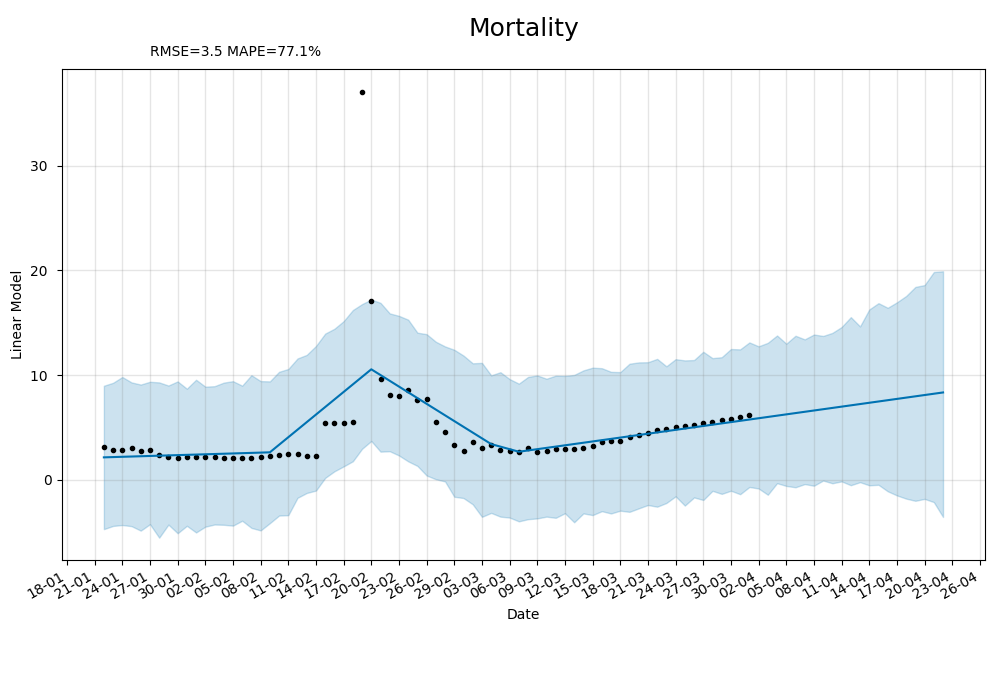
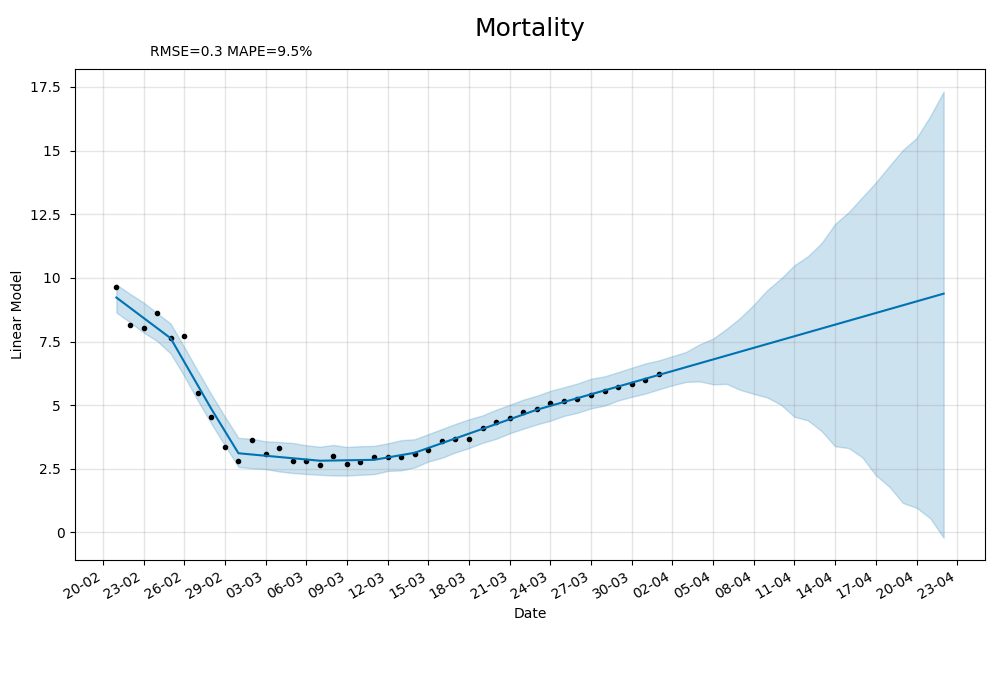
update

diff --git a/prophet_pred.py b/prophet_pred.py
@@ -68,11 +68,11 @@ confirmed_logistic = False
 confirmed_linear = False
 deaths_logistic = False
 deaths_linear = False
-active_logistic = True
+active_logistic = False
 active_linear = False
-recovered_logistic = True
+recovered_logistic = False
 recovered_linear = False
-mortality_linear = False
+mortality_linear = True
 
 #case, floor, cap
 logparams = op.LogParams()
@@ -94,7 +94,7 @@ q3 = xq.Query("Germany", "Confirmed > 0 and Country == 'Germany'")
 
 tag = ""
 #data loader
-dloader = xp.DataLoader(query = q0, logistic_params = logparams)
+dloader = xp.DataLoader(query = q2, logistic_params = logparams)
 
 #forecasting periods
 periods = 21
